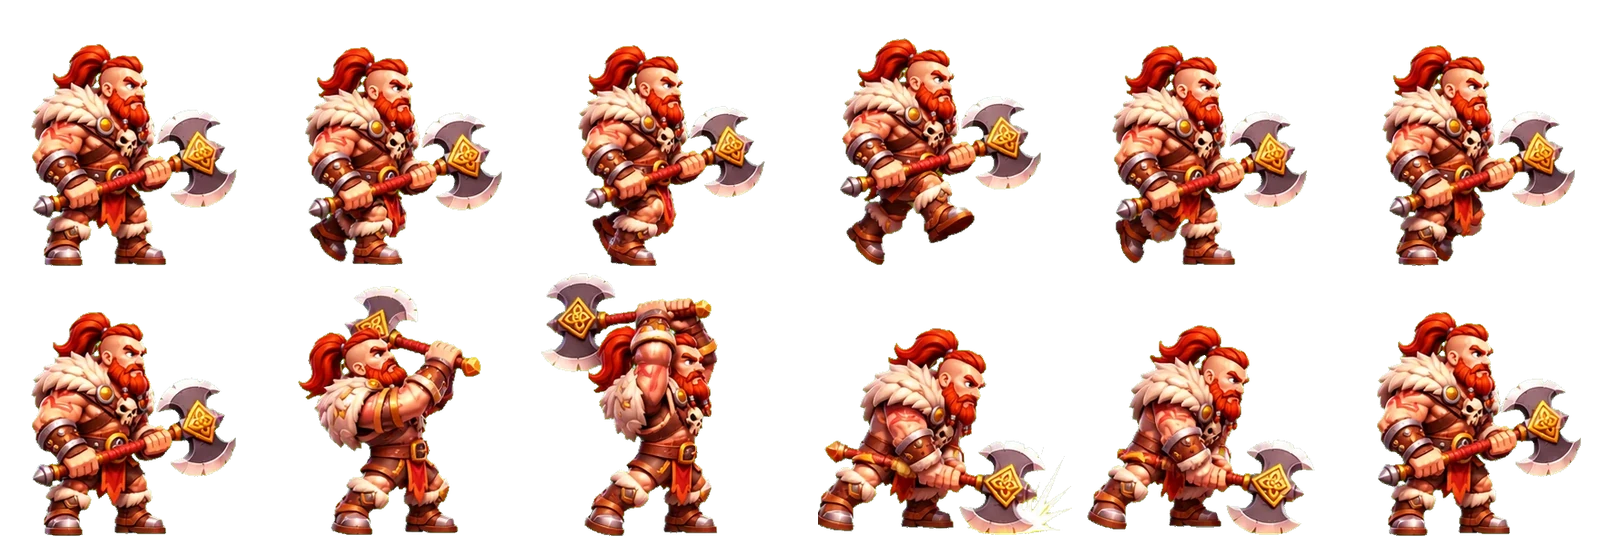
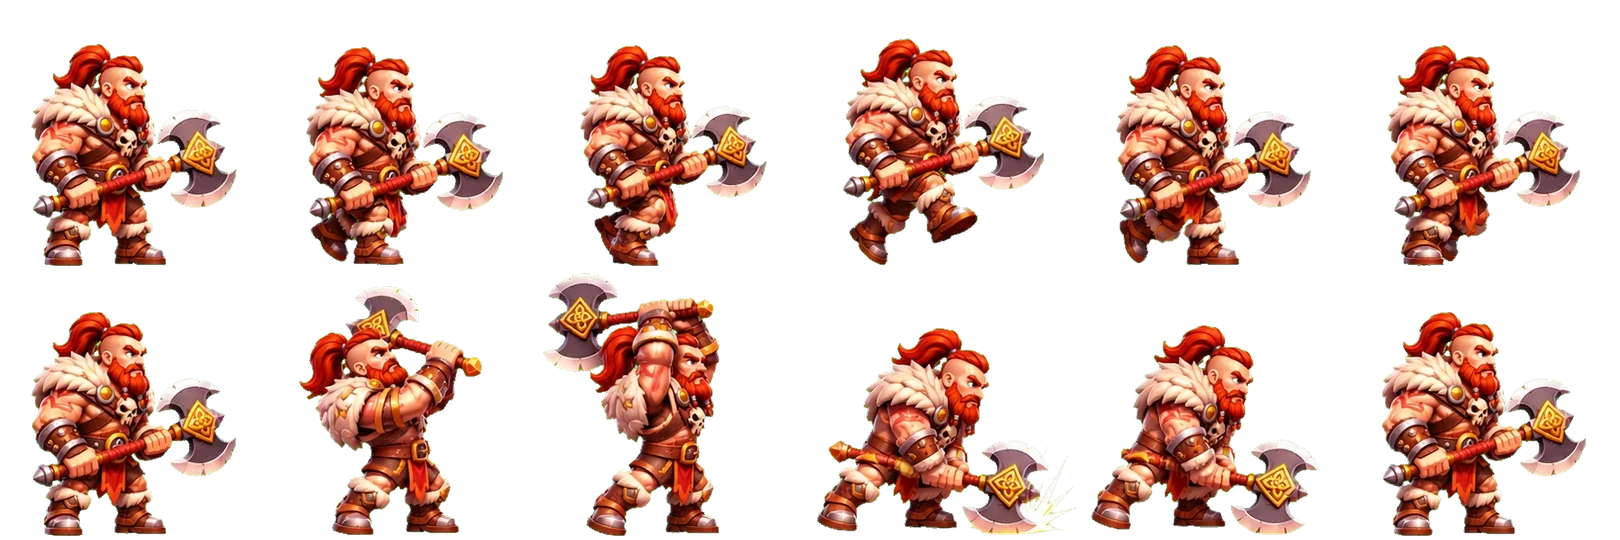
New high-res animation: Dwarf Warrior; grid cells extend past borders so raised weapons are not cut [skip ci]
Claude-Session: https://claude.ai/code/session_019FHBnxKyTVWzaJqkftQpoS

diff --git a/web/js/grids.js b/web/js/grids.js
@@ -2,7 +2,7 @@
 window.BB = window.BB || {};
 Object.assign(BB.SPRITES = BB.SPRITES || {}, {
  "barbarian": {
-  "w": 269,
+  "w": 270,
   "h": 270,
   "ax": 117,
   "ay": 265,
@@ -18,8 +18,25 @@ Object.assign(BB.SPRITES = BB.SPRITES || {}, {
   ],
   "src": "img/units/barbarian_g.webp"
  },
+ "dwarf_warrior": {
+  "w": 263,
+  "h": 277,
+  "ax": 121,
+  "ay": 272,
+  "body": 220,
+  "walk": 6,
+  "attack": 6,
+  "fps": 9,
+  "wb": [
+   -94,
+   -222,
+   116,
+   1
+  ],
+  "src": "img/units/dwarf_warrior_g.webp"
+ },
  "paladin": {
-  "w": 265,
+  "w": 267,
   "h": 269,
   "ax": 106,
   "ay": 264,
@@ -36,7 +53,7 @@ Object.assign(BB.SPRITES = BB.SPRITES || {}, {
   "src": "img/units/paladin_g.webp"
  },
  "red_orc": {
-  "w": 263,
+  "w": 262,
   "h": 268,
   "ax": 116,
   "ay": 263,
@@ -70,7 +87,7 @@ Object.assign(BB.SPRITES = BB.SPRITES || {}, {
   "src": "img/units/royal_knight_g.webp"
  },
  "shadow_assassin": {
-  "w": 259,
+  "w": 258,
   "h": 232,
   "ax": 106,
   "ay": 227,

diff --git a/tools/extract-grid.py b/tools/extract-grid.py
@@ -38,10 +38,14 @@ def cell_mask(c):
     if n == 0:
         return m
     sz = ndimage.sum(m, lab, range(1, n + 1)); big = int(np.argmax(sz)) + 1
+    objs = ndimage.find_objects(lab)
+    W_ = m.shape[1]
+    # pedaço que encosta na borda da célula estendida vem do quadro vizinho
+    cut = {i + 1 for i, sl in enumerate(objs) if sl is not None and (sl[1].start <= 1 or sl[1].stop >= W_ - 1) and i + 1 != big}
     keep = lab == big
-    near = ndimage.binary_dilation(keep, iterations=30)
+    near = ndimage.binary_dilation(keep, iterations=18)
     for i in range(1, n + 1):  # pedaços soltos perto do corpo (faísca do golpe, arma) ficam
-        if i != big and sz[i - 1] > 40 and (near & (lab == i)).any():
+        if i != big and i not in cut and sz[i - 1] > 40 and (near & (lab == i)).any():
             keep |= lab == i
     return m & keep
 
@@ -58,8 +62,10 @@ def main():
         cells = []
         for r in range(ROWS):
             for c in range(COLS):
-                x0, y0 = int(c * cw), int(r * ch)
-                cell = im[y0:int((r + 1) * ch), x0:int((c + 1) * cw)].copy()
+                # a célula se estende um pouco para os lados (arma que passa da divisão); o vizinho fica longe e é descartado
+                ov = int(cw * 0.12)
+                x0, y0 = max(0, int(c * cw) - ov), int(r * ch)
+                cell = im[y0:int((r + 1) * ch), x0:min(W, int((c + 1) * cw) + ov)].copy()
                 m = cell_mask(cell)
                 cell[..., 3] = np.where(m, cell[..., 3], 0)
                 ys, xs = np.nonzero(m)
